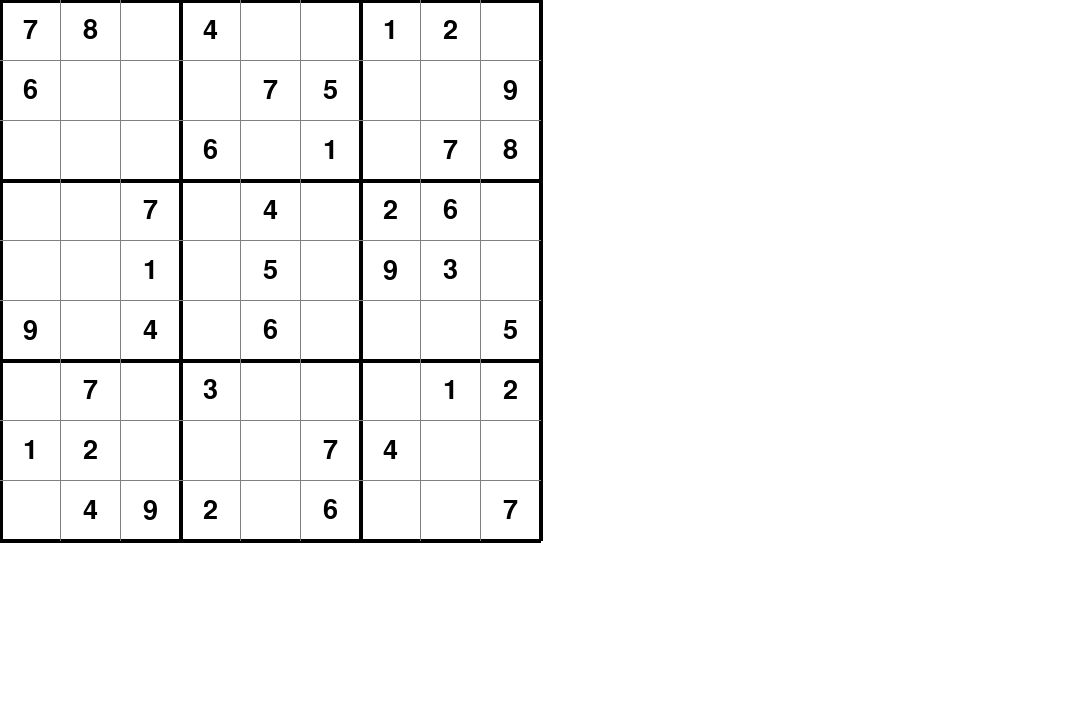
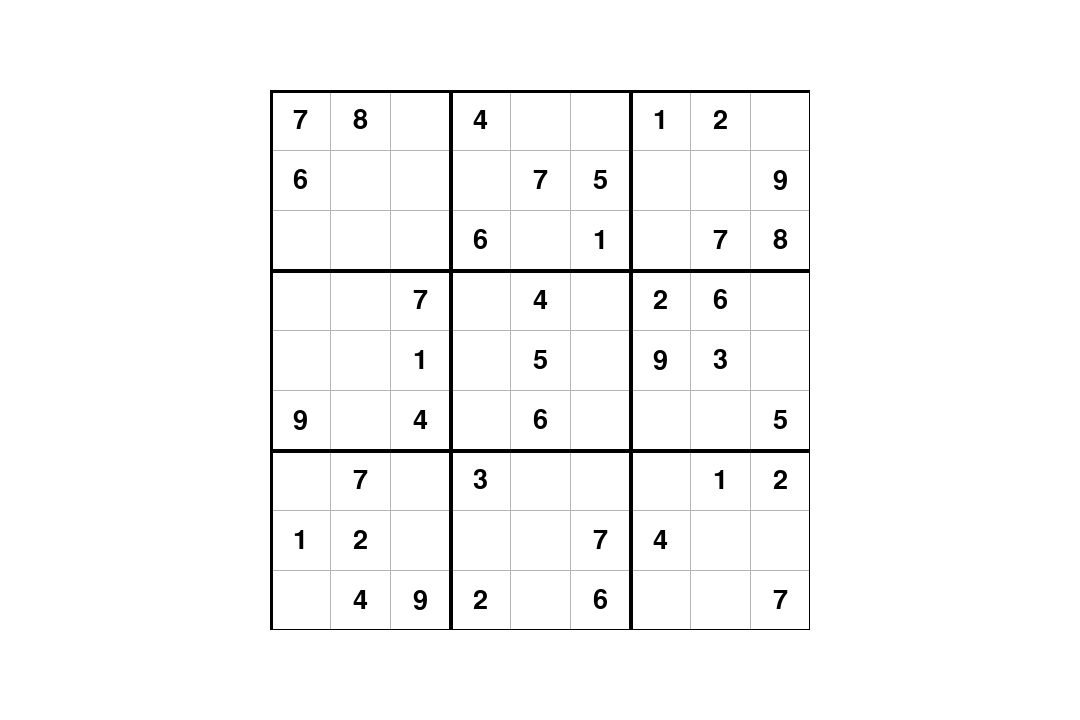
Refactor Sudoku rendering code and add main loop for execution

diff --git a/Mini Projet 1/main.py b/Mini Projet 1/main.py
@@ -1,125 +1,87 @@
-# PyGame template.
- 
-# Import standard modules.
+# !/usr/bin/env python3
+# -*- coding: utf-8 -*-
+"""Affichage minimal d'une grille Sudoku avec pygame (version Codespaces).
+
+Ce module dessine une grille 9x9 et sauvegarde un screenshot.
+"""
+
 import sys
 import os
- 
-# Import non-standard modules.
 import pygame
-from pygame.locals import *
 
-# Set up virtual display for Codespaces
 os.environ['SDL_VIDEODRIVER'] = 'dummy'
 
-# Sudoku board data
-board = [
-    [7, 8, 0, 4, 0, 0, 1, 2, 0],
-    [6, 0, 0, 0, 7, 5, 0, 0, 9],
-    [0, 0, 0, 6, 0, 1, 0, 7, 8],
-    [0, 0, 7, 0, 4, 0, 2, 6, 0],
-    [0, 0, 1, 0, 5, 0, 9, 3, 0],
-    [9, 0, 4, 0, 6, 0, 0, 0, 5],
-    [0, 7, 0, 3, 0, 0, 0, 1, 2],
-    [1, 2, 0, 0, 0, 7, 4, 0, 0],
-    [0, 4, 9, 2, 0, 6, 0, 0, 7]
+GRILLE = [
+    [7,8,0,4,0,0,1,2,0],
+    [6,0,0,0,7,5,0,0,9],
+    [0,0,0,6,0,1,0,7,8],
+    [0,0,7,0,4,0,2,6,0],
+    [0,0,1,0,5,0,9,3,0],
+    [9,0,4,0,6,0,0,0,5],
+    [0,7,0,3,0,0,0,1,2],
+    [1,2,0,0,0,7,4,0,0],
+    [0,4,9,2,0,6,0,0,7]
 ]
 
-def update(dt):
-  """
-  Update game. Called once per frame.
-  dt is the amount of time passed since last frame.
-  If you want to have constant apparent movement no matter your framerate,
-  what you can do is something like
-  
-  x += v * dt
-  
-  and this will scale your velocity based on time. Extend as necessary."""
-  
-  # Go through events that are passed to the script by the window.
-  for event in pygame.event.get():
-    # We need to handle these events. Initially the only one you'll want to care
-    # about is the QUIT event, because if you don't handle it, your game will crash
-    # whenever someone tries to exit.
-    if event.type == QUIT:
-      pygame.quit() # Opposite of pygame.init
-      sys.exit() # Not including this line crashes the script on Windows. Possibly
-      # on other operating systems too, but I don't know for sure.
-    # Handle other events as you wish.
- 
-def draw(screen):
-    """
-    Draw things to the window. Called once per frame.
-    """
-    # Colors
-    BLACK = (0, 0, 0)
-    WHITE = (255, 255, 255)
-    GRAY = (128, 128, 128)
-    
-    # Fill the screen with white
-    screen.fill(WHITE)
-    
-    # Draw the Sudoku grid
-    cell_size = 60
-    grid_size = 9
-    grid_width = cell_size * grid_size
-    
-    # First draw the main 3x3 grid lines (thicker)
-    for i in range(4):
-        pygame.draw.line(screen, BLACK, (i * cell_size * 3, 0), (i * cell_size * 3, grid_width), 4)  # Vertical
-        pygame.draw.line(screen, BLACK, (0, i * cell_size * 3), (grid_width, i * cell_size * 3), 4)  # Horizontal
+LARGEUR, HAUTEUR = 1080, 720
+CELL = 60
+FICHIER_IMAGE = "Mini Projet 1/pygame_screenshot.png"
 
-    # Then draw the smaller cell lines
+def dessiner(ecran: pygame.Surface):
+    """Dessine la grille Sudoku sur la surface fournie et sauvegarde l'image."""
+    blanc = (255,255,255)
+    noir = (0,0,0)
+    gris = (180,180,180)
+
+    ecran.fill(blanc)
+    taille = CELL*9
+    grille = pygame.Surface((taille, taille))
+    grille.fill(blanc)
+
+    # lignes fines
     for i in range(10):
-        if i % 3 != 0:  # Skip where we already drew the thick lines
-            pygame.draw.line(screen, GRAY, (i * cell_size, 0), (i * cell_size, grid_width), 1)  # Vertical
-            pygame.draw.line(screen, GRAY, (0, i * cell_size), (grid_width, i * cell_size), 1)  # Horizontal
-    
-    # Draw numbers
-    for i in range(grid_size):
-        for j in range(grid_size):
-            if board[i][j] != 0:
-                x = j * cell_size
-                y = i * cell_size
-                font = pygame.font.Font(None, 40)
-                number = font.render(str(board[i][j]), True, BLACK)
-                number_rect = number.get_rect(center=(x + cell_size//2, y + cell_size//2))
-                screen.blit(number, number_rect)
-    
-    # Flip the display so that the things we drew actually show up.
+        if i % 3 != 0:
+            pygame.draw.line(grille, gris, (i*CELL,0),(i*CELL,taille),1)
+            pygame.draw.line(grille, gris, (0,i*CELL),(taille,i*CELL),1)
+
+    # lignes épaisses 3x3
+    for i in range(4):
+        pygame.draw.line(grille, noir, (i*3*CELL,0),(i*3*CELL,taille),4)
+        pygame.draw.line(grille, noir, (0,i*3*CELL),(taille,i*3*CELL),4)
+
+    # nombres
+    police = pygame.font.Font(None, 40)
+    for i in range(9):
+        for j in range(9):
+            val = GRILLE[i][j]
+            if val:
+                txt = police.render(str(val), True, noir)
+                rect = txt.get_rect(center=(j*CELL+CELL//2, i*CELL+CELL//2))
+                grille.blit(txt, rect)
+
+    ecran.blit(grille, ((LARGEUR-taille)//2, (HAUTEUR-taille)//2))
     pygame.display.flip()
-    
-    # Save a screenshot of the current frame
-    pygame.image.save(screen, "Mini Projet 1/pygame_screenshot.png")
- 
-def runPyGame():
-  # Initialise PyGame.
-  pygame.init()
-  
-  # Set up the clock. This will tick every frame and thus maintain a relatively constant framerate. Hopefully.
-  fps = 60.0
-  fpsClock = pygame.time.Clock()
-  
-  # Set up the window.
-  width, height = 1080, 720
-  screen = pygame.display.set_mode((width, height))
-  
-  # screen is the surface representing the window.
-  # PyGame surfaces can be thought of as screen sections that you can draw onto.
-  # You can also draw surfaces onto other surfaces, rotate surfaces, and transform surfaces.
-  
-  # Main game loop.
-  dt = 1/fps # dt is the time since last frame.
-  while True: # Loop forever!
-    try:
-        update(dt) # You can update/draw here, I've just moved the code for neatness.
-        draw(screen)
-        dt = fpsClock.tick(fps)
-
-    except KeyboardInterrupt:
-        pygame.quit() # Opposite of pygame.init
-        sys.exit() # Not including this line crashes the script on Windows. Possibly
+    pygame.image.save(ecran, FICHIER_IMAGE)
 
 
+def main():
+    """Initialise pygame et boucle principale. Utiliser --once pour quitter après le rendu."""
+    pygame.init()
+    ecran = pygame.display.set_mode((LARGEUR, HAUTEUR))
+    dessiner(ecran)
 
-if __name__ == "__main__":
-    runPyGame()
+    if "--once" in sys.argv:
+        pygame.quit()
+        return
+
+    horloge = pygame.time.Clock()
+    while True:
+        for evt in pygame.event.get():
+            if evt.type == pygame.QUIT:
+                pygame.quit()
+                return
+        horloge.tick(60)
+
+
+if __name__ == '__main__':
+    main()
